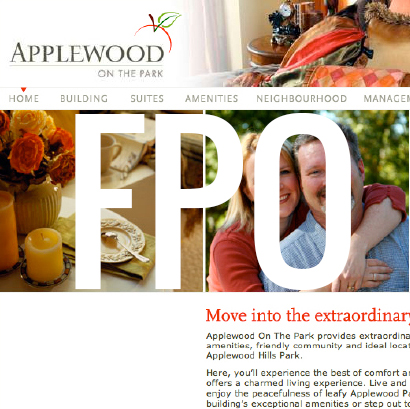
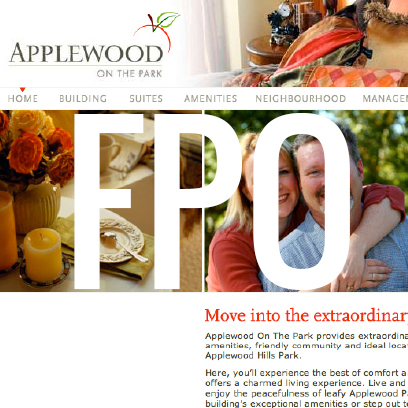
adjustments to overlay text. lost transition animations though

diff --git a/index.html b/index.html
@@ -55,23 +55,60 @@ $('.flexslider').flexslider({ slideshowSpeed : 4000 });
       <div id="work">
 
         <div class="portfolio">
-          <p>Marketing and collateral</p>
-          <img src="images/print.jpg" alt="(report detail)" class="detail">
-          <p  class="overlay-text">Chupa chups marzipan dessert cotton candy. Gummi bears pastry marzipan. Sugar plum bonbon chocolate donut macaroon jelly-o sweet roll gingerbread chocolate cake.</p>
-            </div>
+          <h5>Marketing and collateral</h5>
+
+          <div class="detail">
+            <img src="images/print.jpg" alt="(report detail)">
+
+            <div class="overlay-text">About cookie sugar plum. I love jelly tart
+              cake jelly icing sweet cake tootsie roll. Pie I love gummi bears.
+            </div><!--class="overlay-text"-->
+
+          </div><!--class="detail"-->
+
+          <p class="blurb">About my marketing work Chupa chups marzipan dessert
+            cotton candy. Gummi bears pastry marzipan. Sugar plum bonbon chocolate
+            donut macaroon jelly-o sweet roll gingerbread chocolate cake.</p>
+
+        </div><!--class="portfolio"-->
+
+
 
         <div class="portfolio">
-          <p>Book Design</p>
-          <img src="images/book.jpg" alt="(Book cover detail)" class="detail">
-          <p  class="overlay-text">Chupa chups marzipan dessert cotton candy. Gummi bears pastry marzipan. Sugar plum bonbon chocolate donut macaroon jelly-o sweet roll gingerbread chocolate cake.</p>
+          <h5>Book Design</h5>
 
-             </div>
+          <div class="detail">
+            <img src="images/book.jpg" alt="(Book cover detail)">
+
+            <div class="overlay-text">About sugar plum. I love jelly tart cake
+              jelly icing sweet cake tootsie roll. Pie I love gummi bears.
+            </div><!--class="overlay-text"-->
+
+          </div><!--class="detail"-->
+          <p class="blurb">About my book design Chupa chups marzipan dessert
+            cotton candy. Gummi bears pastry marzipan. Sugar plum bonbon chocolate
+            donut macaroon jelly-o sweet roll gingerbread chocolate cake.</p>
+
+        </div><!--class="portfolio"-->
+
+
 
         <div class="portfolio">
-          <p >Web design</p>
-          <img src="images/web.jpg" alt="(website detail)" class="detail">
-          <p  class="overlay-text">Chupa chups marzipan dessert cotton candy. Gummi bears pastry marzipan. Sugar plum bonbon chocolate donut macaroon jelly-o sweet roll gingerbread chocolate cake.</p>
-             </div>
+          <h5>Digital & UX design</h5>
+
+          <div class="detail">
+            <img src="images/web.jpg" alt="(website detail)">
+
+            <div class="overlay-text">About sugar plum. I love jelly tart cake
+              jelly icing sweet cake tootsie roll. Pie I love gummi bears.
+            </div><!--class="overlay-text"-->
+
+          </div><!--class="detail"-->
+          <p class="blurb">About my digital work Chupa chups marzipan dessert
+            cotton candy. Gummi bears pastry marzipan. Sugar plum bonbon chocolate
+            donut macaroon jelly-o sweet roll gingerbread chocolate cake.</p>
+
+        </div><!--class="portfolio"-->
 
 
 
@@ -143,11 +180,20 @@ $('.flexslider').flexslider({ slideshowSpeed : 4000 });
     <div class="profile">
     <img class="diane" src="images/DianeParisSmall.jpg">
     </div>
-    <div class="blurb">
+    <div class="about-blurb">
     <h3>Hello!</h3>
     <p>
-    I&#8217;m Diane, a Toronto-based user experience and graphic designer. This is a sample of my design and coding work. Writing something for this section is always very difficult for me.
+    I&#8217;m Diane, a Toronto-based user experience and graphic designer. This
+    is a sample of my design and coding work. Writing something for this section
+    is always very difficult for me. I like turtles. Una hoguera en el centro.
+    To The Waterfront Village?. You ought to come. It's full of. Johnathan, you're
+    looking good. Let's wait for Freddie. Back here live at The Waterfront Village
+    with my friend, the zombie. Johnathan, you're looking good. I like turtles.
     </p>
+    <p>And how you built a tower tumbling through the trees. And your mom would
+      stick a fork right into daddy's shoulder. Like a walk in the park, like a
+      hole in your head. Like the feeling you get when you realize you're dead.
+      And feel your voice all over everywhere</p>
     </div><!--iclass="blurb"-->
 
 

diff --git a/css/style.css b/css/style.css
@@ -66,6 +66,14 @@ h3 {
 }
 
 
+h5 {
+    text-align: center;
+    font-size: .75em;
+    text-transform: uppercase;
+    color: darkgrey ;
+    letter-spacing: 1.5px;
+}
+
 body {
     display: flex;
     flex-direction: column;
@@ -83,7 +91,7 @@ display: flex;
   height: 120px;
   position: fixed;
   border-bottom: solid lightgrey .5px;
-  z-index: 100%;
+  z-index: 3;
 }
 
 /*-------*/
@@ -166,25 +174,53 @@ a:hover {
 }
 
 
+
 .detail {
-margin: 5px;}
+margin: 5px;
+opacity:100;
+    position:relative;
+    top:0;
+    left:0;
+    z-index:1;
+    display: flex;
+    justify-content:center;
+align-content:center;
+flex-direction:column;
+display: flex;
+align-items: center;
+}
+
+
 
 .overlay-text {
-  display: none;
-}
-
-.detail:hover {
-    opacity: 0.25;
-    border: solid 1px black;
+    display: none;
+    position:absolute;
+    font-family: 'Nunito Sans', sans-serif;
+    height:100%;
+    top:0;
+    z-index:2;
+    opacity:0;
+    padding: 0 3%;
+    -webkit-transition: opacity 500ms;
+    -moz-transition: opacity 500ms;
+    -o-transition: opacity 500ms;
+    transition: opacity 500ms;
   }
 
-p.overlay-text:hover {
-  font-size: 1em;
-  font-style: italic;
-  font-family: 'Nunito Sans', sans-serif;
-  color: #505050;
-  display: inline;
+
+
+.detail:hover > .overlay-text {
+    opacity: 1;
+    display: flex;
+    align-items: center;
+    background:rgba(255, 255, 255, 0.75)
 }
+
+
+.blurb {
+  padding: 0 2%;
+}
+
 
 
 /*----About--#89D0E0--*/
@@ -202,7 +238,7 @@ p.overlay-text:hover {
     background-color: ;
 }
 
-.blurb {
+.about-blurb {
       max-width: 60%;
       padding-left: 3%;
     }
@@ -241,6 +277,7 @@ footer {
     padding: 20px 0px;
     color: white;
     font-size: .75em;
+    z-index: 3;
     }
 
 .menu_mobile {

diff --git a/css/responsive.css b/css/responsive.css
@@ -179,8 +179,6 @@ img {
 
 
 
-
-
 /****TABLET ***************************/
 
 @media screen and (min-width: 481px) and (max-width: 768px) {
